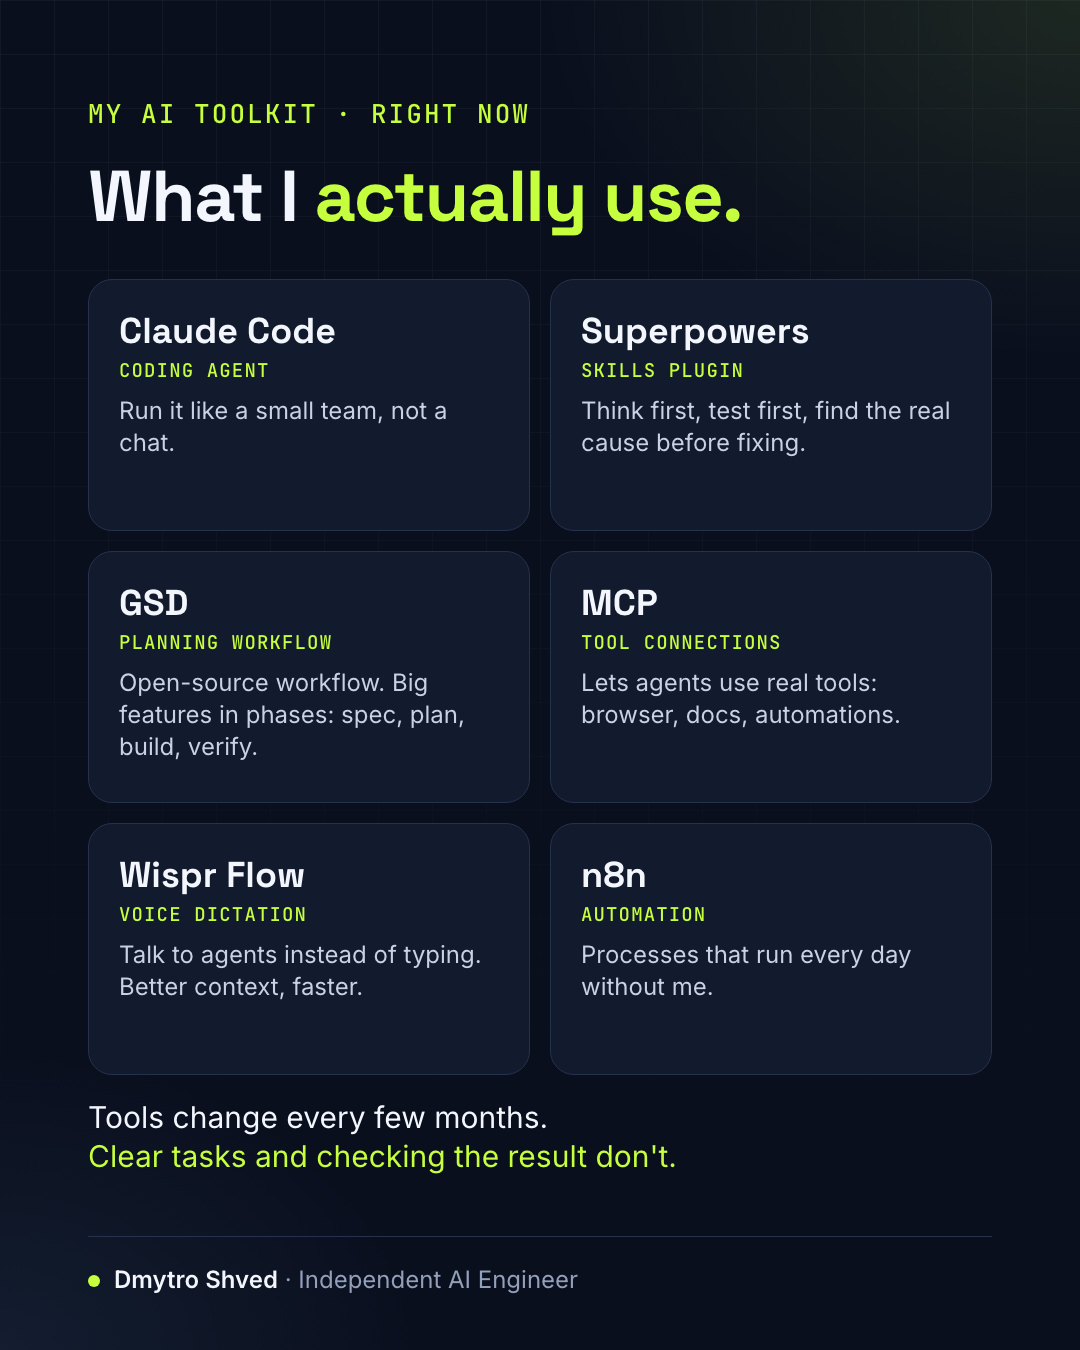
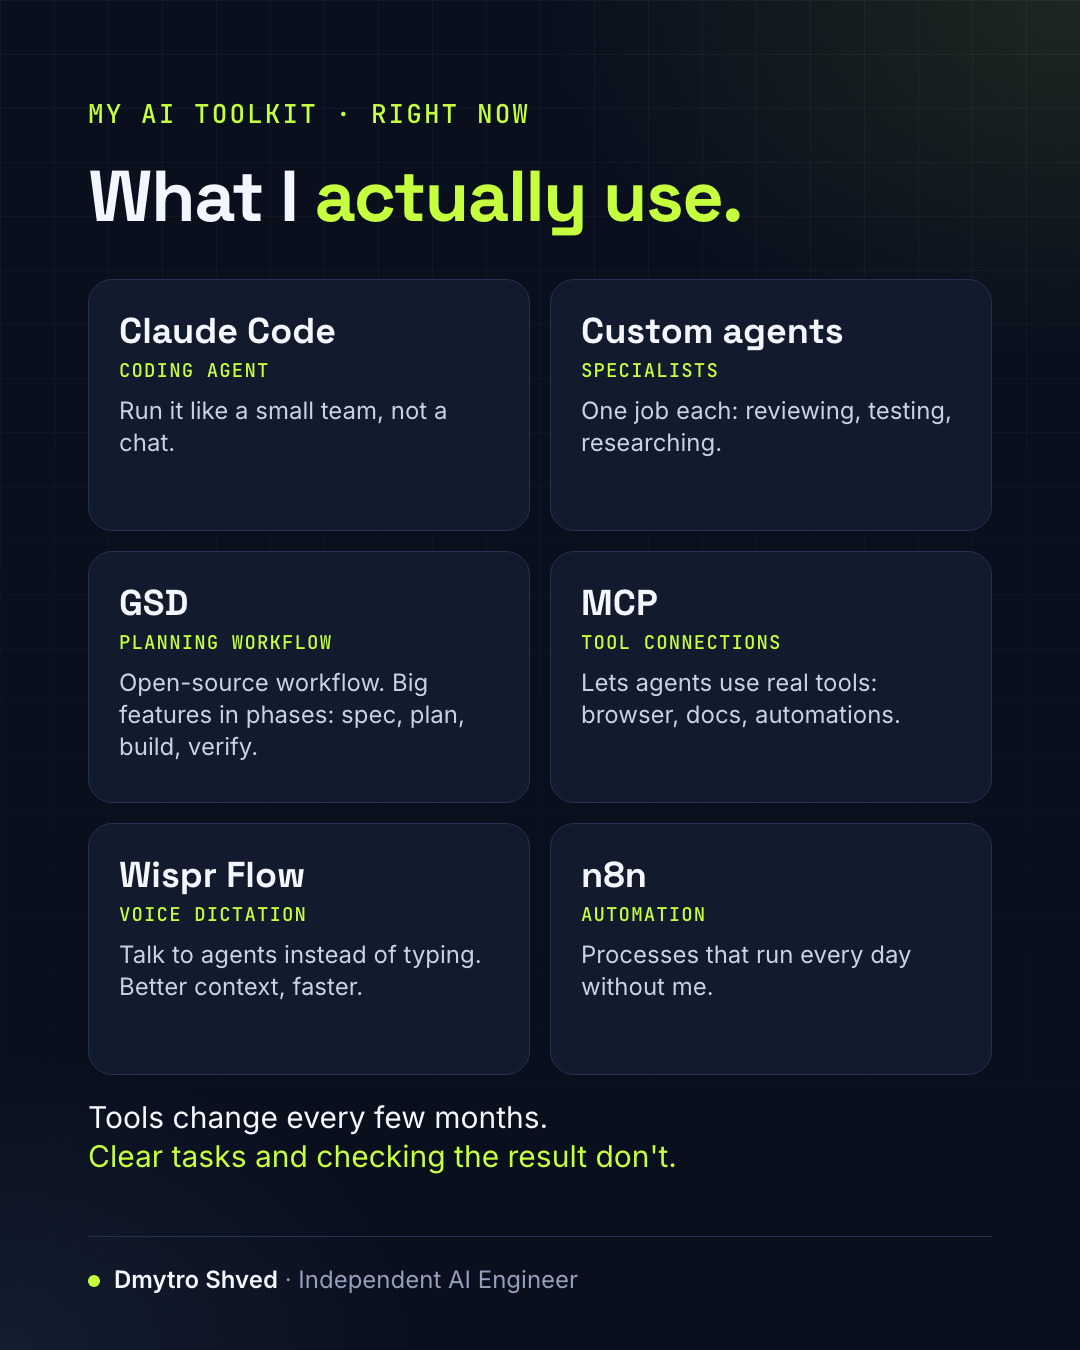
Blog: publish "Your AI coding setup is a dependency"
Same-day blog version of today's LinkedIn post. Also drops Superpowers from
the (still hidden) toolkit draft and its picture: the plugin is switched off,
so the post must not claim it.

Verified: `npm run build` builds 7 pages incl. /blog/ai-setup-is-a-dependency/.

Changed region(s): [[0.55, 0.2178, 0.8861, 0.3422]]

diff --git a/src/content/blog/ai-setup-is-a-dependency.md b/src/content/blog/ai-setup-is-a-dependency.md
@@ -1,0 +1,24 @@
+---
+title: "Your AI coding setup is a dependency"
+description: "Keep rules and workflows portable, so losing one AI account doesn't stop your work."
+date: 2026-10-06
+tags: ["AI coding", "Tools"]
+draft: false
+---
+
+Your AI coding setup is a dependency. Treat it like one.
+
+This week I read a post from a developer who lost access to his AI account overnight. No warning, no explanation, and his whole workflow lived inside that one tool.
+
+Whatever happened in that case, the risk is real for all of us.
+
+Over the last year many of us moved a lot of real engineering work into our AI tools: project rules, prompts, workflows, custom agents. If all of it only works in one tool, behind one login, it's a single point of failure.
+
+So I checked my own setup this week. It only worked in one tool. Now my rules live in one plain file that Claude Code and Codex both read. It took half a day.
+
+Three cheap habits:
+1. Keep rules and workflows in plain files that live with your code, not only in a tool's settings.
+2. Write them so any capable agent can follow them. Plain instructions first, tool-specific tricks only where you need them.
+3. Once in a while, open your project in a second tool and see what breaks.
+
+The model is replaceable. Your way of working shouldn't depend on one login.

diff --git a/src/content/blog/my-ai-toolkit.md b/src/content/blog/my-ai-toolkit.md
@@ -9,7 +9,7 @@ draft: true
 ---
 People ask what I actually use to build with AI. This is my kit right now.
 
-Claude Code for coding. Superpowers and GSD on top of it: open-source skill sets for working carefully and for planning bigger features in phases. MCP to connect agents to real tools. Wispr Flow to dictate instead of type. n8n for things that run without me.
+Claude Code for coding, with GSD on top: an open-source workflow for planning bigger features in phases. A few custom agents for reviewing and testing. MCP to connect agents to real tools. Wispr Flow to dictate instead of type. n8n for things that run without me.
 
 In six months this list will look different. Clear tasks and checking the result will still matter.
 
